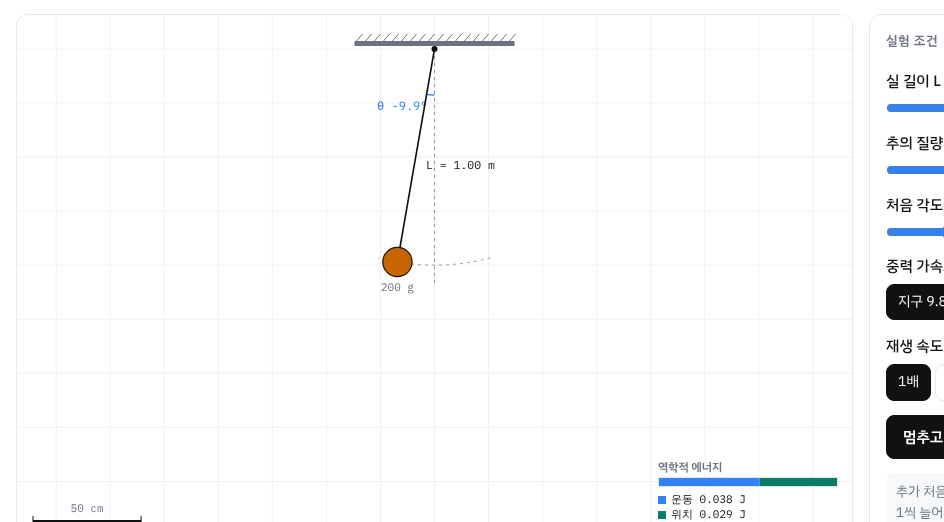
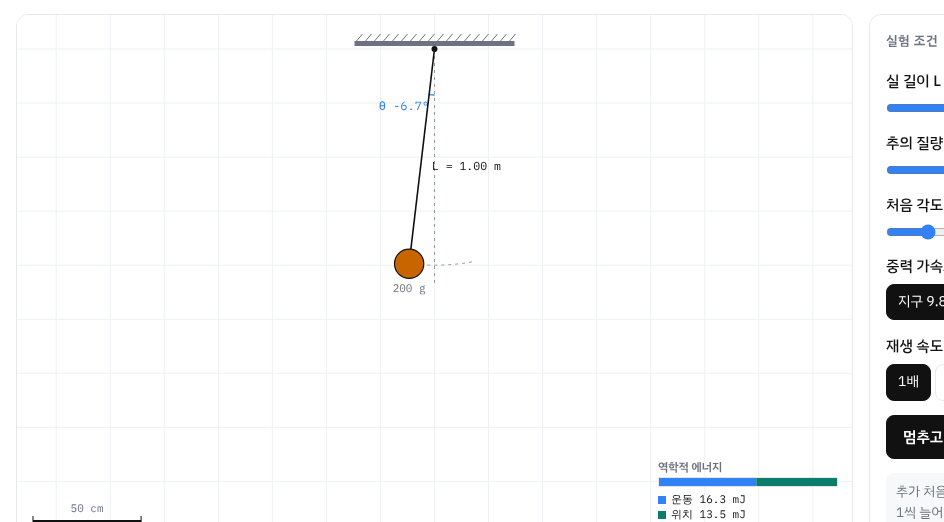
역학과 에너지: 일반 상대성 이론을 측지선 계산으로 다시 만들고 실험 01~05 문장 바로잡음
실험 06 (교감 선생님 지적: 물체가 휘어진 시공간을 따라 움직이도록 구현되지 않았음)
- 전: 평면에서 뉴턴 중력으로 경로를 적분하고 그릴 때만 그물망 높이에 올려 붙임 → 경로와 곡면이 무관,
  '천체가 없을 때의 경로' 점선이 우물 속으로 내려감, 천체 종류별 완화 상수 때문에
  같은 질량·거리인데 꺾인 각도가 다름(보통 별 15.1°·중성자별 18.0°·블랙홀 18.6°)
- 후: 슈바르츠실트 시공간의 측지선 방정식을 RK4로 적분 (빛은 널 측지선, 공은 시간꼴 측지선, c=G=1)
  · 그물망은 같은 시공간의 공간 단면 매립면(플람 포물면, 별 안쪽은 균일 밀도 해의 구면 캡, 깊이만 2.2배)
  · 천체 반지름은 슈바르츠실트 반지름에 비례(보통 별 4배·중성자별 2.5배·블랙홀 = 사건의 지평선)
  · 점선은 평평한 시공간(z=0)의 직선, 블랙홀 둘레에 빛 포획 한계(3√3 M ≈ 2.6 × 지평선 반지름) 점선 원
  · 검증: 질량 4·거리 0.35에서 세 천체 모두 빛 15.8°·공 59.2°, 빛 포획은 0.10~0.11 사이(이론 0.104)
- 시간 지연: 시계 A를 'A (∞)'로 표기하고 끊김 표시(//)를 두어 무한히 먼 곳 기준임을 드러냄
- 설명 문장: 그물망·측지선·과장의 이유(태양 반지름은 슈바르츠실트 반지름의 약 23만 배) 보강

실험 01~05 (검토 결과: 수식·수치는 모두 이론값과 일치, 문장만 수정)
- 단진자: '역학적 에너지 변화' → '운동·위치 에너지의 전환(보존)', 진폭별 주기 증가율 명시(10° 0.2 %…60° 7 %),
  기본 진폭 15° → 10°, g 구하기 과제에 '진폭 10° 이하', 점질량·실 질량 무시 전제, 에너지 mJ 표시
- 포물선: 합이 90°인 두 각의 도달 거리 비교에 '발사 높이 0 m' 조건
- 그래프 변인 통제: 발사각–거리(속력·높이·g)·T²–L(g)에서 지금 조건과 다른 기록은 회색 점으로, 추세선에서 제외
- 인공위성: 속력을 키울 때 궤도 순서(떨어짐 → 타원 → 원 → 타원 → 탈출), 우주정거장 약 92분,
  '지구 중력을 벗어남' → '지구로 되돌아오지 않음', 높이에 따라 두 속력이 작아짐
- 도플러: 충격파 조건 '이상' → '보다 빠르면', 위에서 보면 V자, sin θ = v/vs, 소리 속력 340 m/s(약 15 °C), 빛은 '비슷한' 현상
- 케플러: 속력 km/s 환산 설명, 행성 질량 무시 설명
- 썸네일 1·5 재캡처, CLAUDE.md 인수인계 갱신

Claude-Session: https://claude.ai/code/session_01YFfKQGz49m48oPbyrKRZ81

diff --git a/labs/physics/mechanics-energy.html b/labs/physics/mechanics-energy.html
@@ -250,7 +250,7 @@ th{font-size:13px}
           <h3>탐구 과제</h3>
           <ol>
             <li>속력과 높이를 고정하고 발사각 15°, 30°, 45°, 60°, 75°에서 수평 도달 거리 기록</li>
-            <li>수평 도달 거리가 가장 긴 발사각 찾기, 합이 90°인 두 각도(30°와 60°)의 결과 비교</li>
+            <li>수평 도달 거리가 가장 긴 발사각 찾기, 발사 높이 0 m에서 합이 90°인 두 각도(30°와 60°)의 결과 비교</li>
             <li>0.1초 간격 점의 가로·세로 간격을 보고 수평 방향과 연직 방향 운동의 특징 정리</li>
             <li>발사 높이를 20 m로 올렸을 때 가장 멀리 가는 각도가 어떻게 달라지는지 확인</li>
             <li>중력 가속도를 달로 바꾸기 전에 결과를 먼저 예측하고 실험으로 확인</li>
@@ -271,12 +271,12 @@ th{font-size:13px}
       <header class="lab-head">
         <div class="eyebrow">실험 02 · 탄성파와 소리</div>
         <h2>단진자</h2>
-        <p>실 길이·추의 질량·진폭을 바꾸며 주기를 측정하고, 역학적 에너지 변화 관찰</p>
+        <p>실 길이·추의 질량·진폭을 바꾸며 주기를 측정하고, 운동 에너지와 위치 에너지의 전환(역학적 에너지 보존) 관찰</p>
       </header>
       <div class="bench">
         <div class="stage">
           <div class="cvbox"><canvas class="sim" aria-label="단진자 시뮬레이션 화면"></canvas></div>
-          <p class="cap">배경 눈금 1칸 = 25 cm · 공기 저항 무시</p>
+          <p class="cap">배경 눈금 1칸 = 25 cm · 추는 점, 실의 질량과 늘어남은 무시 · 공기 저항 무시</p>
           <div class="readout"></div>
         </div>
         <div class="panel"><h3>실험 조건</h3><div class="ctls"></div></div>
@@ -291,7 +291,7 @@ th{font-size:13px}
           <ol>
             <li>길이와 진폭을 고정하고 추의 질량만 바꾸며 주기 측정, 주기와 질량의 관계 정리</li>
             <li>실 길이를 0.2 m부터 2.0 m까지 바꾸며 주기 측정</li>
-            <li>T²–L 그래프를 그리고 추세선 기울기로 중력 가속도 g 구하기 (T² = 4π²L / g 이므로 g = 4π² ÷ 기울기)</li>
+            <li>T²–L 그래프를 그리고 추세선 기울기로 중력 가속도 g 구하기 (T² = 4π²L / g 이므로 g = 4π² ÷ 기울기 · 진폭은 10° 이하로)</li>
             <li>에너지 막대에서 운동 에너지와 위치 에너지가 바뀌어도 합이 일정한지 확인</li>
             <li>g를 달로 바꾸기 전에 주기가 몇 배가 될지 예측하고 확인</li>
           </ol>
@@ -299,7 +299,7 @@ th{font-size:13px}
         <details class="more">
           <summary>이것까지 알면 좋아요</summary>
           <ul>
-            <li>T = 2π√(L/g)는 진폭이 작을 때 성립하는 식. 이 실험실은 근사 없이 계산하므로 진폭을 40° 이상으로 키우면 주기가 조금 길어짐</li>
+            <li>T = 2π√(L/g)는 진폭이 작을 때 성립하는 근사식. 이 실험실은 근사 없이 계산하므로 진폭이 클수록 주기가 길어짐 (10°에서 약 0.2 %, 20°에서 약 0.8 %, 40°에서 약 3 %, 60°에서 약 7 %). g를 구할 때는 진폭을 10° 이하로 두어야 9.8에 가깝게 나옴</li>
             <li>실제 실험에서 10번 왕복 시간을 재서 나누는 까닭: 초시계를 누를 때 생기는 반응 시간 오차를 줄이기 위함</li>
           </ul>
         </details>
@@ -316,7 +316,7 @@ th{font-size:13px}
       <div class="bench">
         <div class="stage">
           <div class="cvbox"><canvas class="sim" aria-label="행성 공전 시뮬레이션 화면"></canvas></div>
-          <p class="cap">거리 단위 AU(천문단위), 시간 단위 년 · 화살표 길이는 속력에 비례</p>
+          <p class="cap">거리 단위 AU(천문단위), 시간 단위 년 · 속력은 km/s로 환산 (1 AU/년 ≈ 4.74 km/s) · 화살표 길이는 속력에 비례</p>
           <div class="readout"></div>
           <div class="sectors"></div>
         </div>
@@ -343,6 +343,7 @@ th{font-size:13px}
             <li>1 AU는 지구와 태양 사이 평균 거리, 약 1억 5천만 km</li>
             <li>AU와 년 단위를 쓰면 태양계 행성의 T²/a³ 값은 모두 1에 가까움. 이 값은 중심 천체의 질량으로 정해지므로, 목성 둘레를 도는 위성들은 서로는 같지만 태양 둘레를 도는 행성과는 다른 값이 나옴</li>
             <li>구간 넓이는 화면의 부채꼴 모양을 잘게 나눠 계산한 값</li>
+            <li>행성의 질량은 태양의 1/1000보다 작아 무시함 (엄밀히는 T²/a³이 태양과 행성의 질량 합에 반비례)</li>
           </ul>
         </details>
       </div>
@@ -370,7 +371,7 @@ th{font-size:13px}
         <div>
           <h3>탐구 과제</h3>
           <ol>
-            <li>발사 속력을 1 km/s씩 키우며 결과 기록 (떨어짐 → 원 궤도 → 타원 궤도 → 탈출)</li>
+            <li>발사 속력을 1 km/s씩 키우며 결과 기록 (떨어짐 → 타원 궤도 → 원 궤도 → 타원 궤도 → 탈출)</li>
             <li>원 궤도에 가장 가까워지는 속력 찾기, 만유인력이 구심력 역할을 한다는 식으로 계산한 값과 비교</li>
             <li>발사 높이를 바꾸며 원 궤도 속력과 공전 주기 변화 비교</li>
             <li>[기준 속력 보기]는 예측과 측정을 마친 뒤에 켜서 확인</li>
@@ -379,9 +380,9 @@ th{font-size:13px}
         <details class="more">
           <summary>이것까지 알면 좋아요</summary>
           <ul>
-            <li>지표면 근처 원 궤도 속력 약 7.9 km/s, 지구 중력을 벗어나는 탈출 속력 약 11.2 km/s</li>
+            <li>지표면 근처 원 궤도 속력 약 7.9 km/s, 지구로 되돌아오지 않는 탈출 속력 약 11.2 km/s. 높이가 높을수록 두 값 모두 작아짐 (400 km에서는 7.67 km/s·10.85 km/s)</li>
             <li>탈출 속력 = 원 궤도 속력 × √2 (역학적 에너지 보존으로 구함)</li>
-            <li>국제우주정거장은 약 400 km 높이에서 약 90분마다 지구를 한 바퀴 돎</li>
+            <li>국제우주정거장은 약 400 km 높이에서 약 92분(1시간 30분 남짓)마다 지구를 한 바퀴 돎</li>
           </ul>
         </details>
       </div>
@@ -397,7 +398,7 @@ th{font-size:13px}
       <div class="bench">
         <div class="stage">
           <div class="cvbox"><canvas class="sim" aria-label="도플러 효과 시뮬레이션 화면"></canvas></div>
-          <p class="cap">위에서 내려다본 모습 · 소리의 속력 340 m/s · 실제보다 150배 느리게 재생</p>
+          <p class="cap">위에서 내려다본 모습 · 소리의 속력 340 m/s (약 15 °C 공기) · 실제보다 150배 느리게 재생</p>
           <div class="readout"></div>
         </div>
         <div class="panel"><h3>실험 조건</h3><div class="ctls"></div></div>
@@ -419,9 +420,9 @@ th{font-size:13px}
         <details class="more">
           <summary>이것까지 알면 좋아요</summary>
           <ul>
-            <li>음원 속력이 소리 속력 이상이면 파면이 겹쳐 원뿔 모양 충격파가 생김 (소닉 붐)</li>
+            <li>음원 속력이 소리 속력보다 빠르면 파면이 겹쳐 원뿔 모양(위에서 보면 V자) 충격파가 생김 (소닉 붐). 원뿔의 반각 θ는 sin θ = v/vs</li>
             <li>관찰자가 정지한 음원 쪽으로 vo로 다가가면 f′ = f·(v + vo)/v</li>
-            <li>빛에서도 같은 현상이 일어남. 멀어지는 별과 은하의 빛은 파장이 길어짐(적색 편이)</li>
+            <li>빛에서도 비슷한 현상이 일어남. 멀어지는 별과 은하의 빛은 파장이 길어짐(적색 편이)</li>
           </ul>
         </details>
       </div>
@@ -464,8 +465,9 @@ th{font-size:13px}
         <details class="more">
           <summary>이것까지 알면 좋아요</summary>
           <ul>
-            <li>그물망(고무막) 그림은 비유. 실제로는 3차원 공간과 시간이 함께 휘어지고, 고무막처럼 '아래쪽'이 있는 것은 아님</li>
-            <li>빛이 휘는 정도는 보기 쉽게 크게 과장함. 태양 가장자리를 스치는 별빛은 약 1.75″(각초)만 휘어지며, 1919년 일식 관측으로 처음 확인됨</li>
+            <li>그물망은 질량 주위의 휘어진 공간(일반 상대성 이론의 슈바르츠실트 해)의 한 단면을 2차원 곡면으로 나타낸 것(깊이는 보기 쉽게 키움). 실제로는 3차원 공간과 시간이 함께 휘어지고, 고무막처럼 '아래쪽'이 있는 것은 아님</li>
+            <li>빛과 공의 경로는 이 휘어진 시공간에서 가장 곧은 길(측지선)을 계산한 것. 그래서 같은 질량·같은 거리면 천체 종류와 관계없이 똑같이 휘고, 공은 빛보다 느려서 더 많이 휨</li>
+            <li>실제 별은 질량에 비해 매우 커서(태양 반지름은 슈바르츠실트 반지름의 약 23만 배) 빛이 거의 휘지 않음. 여기서는 천체를 지평선 반지름의 몇 배 크기로 아주 작고 무겁게 잡아 휘는 정도를 과장함. 태양 가장자리를 스치는 별빛은 약 1.75″(각초)만 휘어지며, 1919년 일식 관측으로 처음 확인됨</li>
             <li>시간 지연 계산식: t<sub>B</sub> = t<sub>A</sub> × √(1 − 2GM/rc²). 2GM/c²을 슈바르츠실트 반지름이라 하고, 블랙홀은 이 반지름(사건의 지평선) 안쪽에서 빛도 빠져나오지 못함</li>
             <li>GPS 위성의 시계는 중력이 약한 높은 곳에 있어 지상보다 하루에 약 45 μs 빨리 감. 빠르게 움직여서 느려지는 효과(약 7 μs)를 합치면 하루 약 38 μs 차이 → 보정하지 않으면 위치 오차가 하루에 10 km 넘게 쌓임. 이 실험실에서 지구를 고르고 시계 B를 1.0과 4.2 × 반지름에 두어 '하루에 늦어지는 시간'의 차이를 구하면 비슷한 값이 나옴 (1.0에서 읽는 60 μs는 아주 먼 곳과 비교한 값)</li>
           </ul>
@@ -578,8 +580,10 @@ function scatter(cv,o){
   text(ctx,o.xLabel,pl+pw/2,h-4,{size:12,align:'center',base:'bottom'});
   ctx.save();ctx.translate(13,pt+ph/2);ctx.rotate(-Math.PI/2);text(ctx,o.yLabel,0,0,{size:12,align:'center',base:'middle'});ctx.restore();
   if(!pts.length){text(ctx,'기록을 추가하면 점이 찍혀요',pl+pw/2,pt+ph/2,{size:13,align:'center',base:'middle'});return;}
-  if(o.fit&&pts.length>=2){let sxy=0,sxx=0;pts.forEach(p=>{sxy+=p.x*p.y;sxx+=p.x*p.x;});if(sxx>0){const k=sxy/sxx;ctx.strokeStyle=hexA(C.accent,0.75);ctx.lineWidth=1.5;ctx.setLineDash([5,4]);const xe=Math.min(xm,ym/k);line(ctx,X(0),Y(0),X(xe),Y(k*xe));ctx.setLineDash([]);text(ctx,'원점을 지나는 추세선 기울기 ≈ '+k.toPrecision(4),pl+8,6,{size:12,color:C.accent,base:'top',weight:600});}}
-  pts.forEach(p=>{ctx.fillStyle=C.trace;ctx.beginPath();ctx.arc(X(p.x),Y(p.y),4.5,0,TAU);ctx.fill();ctx.strokeStyle=C.panel;ctx.lineWidth=1.5;ctx.stroke();});
+  if(o.note)text(ctx,o.note,pl+pw,pt-8,{size:11,align:'right',base:'bottom',color:C.muted});
+  const fp=pts.filter(p=>!p.dim);
+  if(o.fit&&fp.length>=2){let sxy=0,sxx=0;fp.forEach(p=>{sxy+=p.x*p.y;sxx+=p.x*p.x;});if(sxx>0){const k=sxy/sxx;ctx.strokeStyle=hexA(C.accent,0.75);ctx.lineWidth=1.5;ctx.setLineDash([5,4]);const xe=Math.min(xm,ym/k);line(ctx,X(0),Y(0),X(xe),Y(k*xe));ctx.setLineDash([]);text(ctx,'원점을 지나는 추세선 기울기 ≈ '+k.toPrecision(4),pl+8,6,{size:12,color:C.accent,base:'top',weight:600});}}
+  pts.forEach(p=>{ctx.fillStyle=p.dim?hexA(C.muted,0.45):C.trace;ctx.beginPath();ctx.arc(X(p.x),Y(p.y),4.5,0,TAU);ctx.fill();ctx.strokeStyle=C.panel;ctx.lineWidth=1.5;ctx.stroke();});
 }
 
 const LABS={};
@@ -592,10 +596,10 @@ const G_OPTS=[{v:9.8,t:'지구 9.8'},{v:3.7,t:'화성 3.7'},{v:1.6,t:'달 1.6'}]
 mkLab('projectile',L=>{
   const st={v0:15,ang:45,h:0,g:9.8,rate:1,vec:true,strobe:true,run:false,t:0,fl:null,done:null,trails:[],ci:0};
   const D=()=>{if(!st.run&&st.done){st.done=null;recB.disabled=true;res.textContent='조건이 바뀌었어요. 다시 발사하면 결과가 나와요.';}L.dirty=true;};
-  slider(L.ctl,{id:'p-v',label:'발사 속력',min:1,max:30,step:0.5,value:15,unit:'m/s',digits:1,onInput:v=>{st.v0=v;D();}});
+  slider(L.ctl,{id:'p-v',label:'발사 속력',min:1,max:30,step:0.5,value:15,unit:'m/s',digits:1,onInput:v=>{st.v0=v;D();L.drawChart();}});
   slider(L.ctl,{id:'p-a',label:'발사 각도',min:0,max:90,step:1,value:45,unit:'°',digits:0,onInput:v=>{st.ang=v;D();}});
-  slider(L.ctl,{id:'p-h',label:'발사 높이',min:0,max:30,step:1,value:0,unit:'m',digits:0,onInput:v=>{st.h=v;D();}});
-  seg(L.ctl,{label:'중력 가속도 g (m/s²)',options:G_OPTS,value:9.8,onChange:v=>{st.g=v;D();}});
+  slider(L.ctl,{id:'p-h',label:'발사 높이',min:0,max:30,step:1,value:0,unit:'m',digits:0,onInput:v=>{st.h=v;D();L.drawChart();}});
+  seg(L.ctl,{label:'중력 가속도 g (m/s²)',options:G_OPTS,value:9.8,onChange:v=>{st.g=v;D();L.drawChart();}});
   seg(L.ctl,{label:'재생 속도',options:[{v:1,t:'실제 속도'},{v:0.25,t:'4배 느리게'}],value:1,onChange:v=>{st.rate=v;}});
   check(L.ctl,{id:'p-vec',label:'속도 벡터 보기 (v, vx, vy)',value:true,onChange:v=>{st.vec=v;D();}});
   check(L.ctl,{id:'p-str',label:'0.1초마다 위치 점 찍기',value:true,onChange:v=>{st.strobe=v;D();}});
@@ -606,7 +610,7 @@ mkLab('projectile',L=>{
   const R=readout(L.ro,[['t','시간','s'],['x','x','m'],['y','y','m'],['vx','vx','m/s'],['vy','vy','m/s']]);
   const res=L.sec.querySelector('.result');
   const rec=recorder(L.rec,'projectile',[{k:'ang',l:'발사각 (°)',d:0},{k:'v0',l:'속력 (m/s)',d:1},{k:'h',l:'높이 (m)',d:0},{k:'g',l:'g (m/s²)',d:1},{k:'T',l:'비행 시간 (s)',d:2},{k:'R',l:'도달 거리 (m)',d:2},{k:'H',l:'최고 높이 (m)',d:2}]);
-  L.drawChart=()=>scatter(L.chartCv,{points:rec.rows.map(r=>({x:r.ang,y:r.R})),xMax:90,xStep:15,xLabel:'발사각 (°)',yLabel:'수평 도달 거리 (m)'});
+  L.drawChart=()=>{const pts=rec.rows.map(r=>({x:r.ang,y:r.R,dim:!(Math.abs(r.v0-st.v0)<1e-9&&Math.abs(r.h-st.h)<1e-9&&Math.abs(r.g-st.g)<1e-9)}));scatter(L.chartCv,{points:pts,xMax:90,xStep:15,xLabel:'발사각 (°)',yLabel:'수평 도달 거리 (m)',note:pts.some(q=>q.dim)?'회색: 지금과 속력·높이·g가 다른 기록':''});};
   rec.onChange(()=>L.drawChart());
 
   function plan(){const th=st.ang*DEG,vx=st.v0*Math.cos(th),vy=st.v0*Math.sin(th),g=st.g,h=st.h;const T=(vy+Math.sqrt(vy*vy+2*g*h))/g;return{v0:st.v0,ang:st.ang,h,g,vx,vy,T,R:vx*T,H:h+(vy>0?vy*vy/(2*g):0)};}
@@ -660,12 +664,12 @@ mkLab('projectile',L=>{
    02 단진자
    ========================================================= */
 mkLab('pendulum',L=>{
-  const st={L:1,m:200,th0:15,g:9.8,rate:1,run:false,th:15*DEG,om:0,t:0,n:0,tn:0,t10:null};
+  const st={L:1,m:200,th0:10,g:9.8,rate:1,run:false,th:10*DEG,om:0,t:0,n:0,tn:0,t10:null};
   function reset(){st.run=false;st.th=st.th0*DEG;st.om=0;st.t=0;st.n=0;st.tn=0;st.t10=null;runB.textContent='추 놓기';recB.disabled=true;L.dirty=true;}
   slider(L.ctl,{id:'q-l',label:'실 길이 L',min:0.2,max:2,step:0.05,value:1,unit:'m',digits:2,onInput:v=>{st.L=v;reset();}});
   slider(L.ctl,{id:'q-m',label:'추의 질량',min:50,max:500,step:10,value:200,unit:'g',digits:0,onInput:v=>{st.m=v;reset();}});
-  slider(L.ctl,{id:'q-a',label:'처음 각도 (진폭)',min:2,max:60,step:1,value:15,unit:'°',digits:0,onInput:v=>{st.th0=v;reset();}});
-  seg(L.ctl,{label:'중력 가속도 g (m/s²)',options:G_OPTS,value:9.8,onChange:v=>{st.g=v;reset();}});
+  slider(L.ctl,{id:'q-a',label:'처음 각도 (진폭)',min:2,max:60,step:1,value:10,unit:'°',digits:0,onInput:v=>{st.th0=v;reset();}});
+  seg(L.ctl,{label:'중력 가속도 g (m/s²)',options:G_OPTS,value:9.8,onChange:v=>{st.g=v;reset();L.drawChart();}});
   seg(L.ctl,{label:'재생 속도',options:[{v:1,t:'1배'},{v:2,t:'2배'},{v:4,t:'4배'}],value:1,onChange:v=>{st.rate=v;}});
   const bw=el('div','btns');L.ctl.appendChild(bw);
   const runB=btn(bw,'추 놓기','primary',()=>{if(st.run){reset();}else{reset();st.run=true;runB.textContent='멈추고 처음으로';}});
@@ -675,7 +679,7 @@ mkLab('pendulum',L=>{
   const rec=recorder(L.rec,'pendulum',[{k:'L',l:'길이 L (m)',d:2},{k:'m',l:'질량 (g)',d:0},{k:'a',l:'진폭 (°)',d:0},{k:'g',l:'g (m/s²)',d:1},{k:'n',l:'왕복 횟수',d:0},{k:'tn',l:'걸린 시간 (s)',d:2},{k:'T',l:'주기 T (s)',d:3},{k:'T2',l:'T² (s²)',d:3}]);
   let cm='T2';
   seg(L.sec.querySelector('.chart-ctl'),{options:[{v:'T',t:'T–L'},{v:'T2',t:'T²–L'}],value:'T2',onChange:v=>{cm=v;L.drawChart();}});
-  L.drawChart=()=>scatter(L.chartCv,{points:rec.rows.map(r=>({x:r.L,y:cm==='T2'?r.T2:r.T})),xMax:2,xStep:0.5,xLabel:'실 길이 L (m)',yLabel:cm==='T2'?'T² (s²)':'주기 T (s)',fit:cm==='T2'});
+  L.drawChart=()=>{const pts=rec.rows.map(r=>({x:r.L,y:cm==='T2'?r.T2:r.T,dim:Math.abs(r.g-st.g)>1e-9}));scatter(L.chartCv,{points:pts,xMax:2,xStep:0.5,xLabel:'실 길이 L (m)',yLabel:cm==='T2'?'T² (s²)':'주기 T (s)',fit:cm==='T2',note:pts.some(q=>q.dim)?'회색: 지금과 g가 다른 기록 (추세선에서 제외)':''});};
   rec.onChange(()=>L.drawChart());
 
   const acc=th=>-(st.g/st.L)*Math.sin(th);
@@ -707,8 +711,8 @@ mkLab('pendulum',L=>{
     text(ctx,'역학적 에너지',ex,ey,{size:11.5,weight:600});
     const tot=Math.max(E,1e-12),kw=ew*clamp(KE/tot,0,1);
     ctx.fillStyle=C.accent;ctx.fillRect(ex,ey+6,kw,10);ctx.fillStyle=C.teal;ctx.fillRect(ex+kw,ey+6,Math.max(0,ew*clamp(PE/tot,0,1)),10);ctx.strokeStyle=C.rule;ctx.lineWidth=1;ctx.strokeRect(ex+0.5,ey+6.5,ew-1,9);
-    ctx.fillStyle=C.accent;ctx.fillRect(ex,ey+25,8,8);text(ctx,'운동 '+KE.toFixed(3)+' J',ex+13,ey+29,{mono:1,size:11,base:'middle',color:C.ink});
-    ctx.fillStyle=C.teal;ctx.fillRect(ex,ey+40,8,8);text(ctx,'위치 '+PE.toFixed(3)+' J',ex+13,ey+44,{mono:1,size:11,base:'middle',color:C.ink});
+    ctx.fillStyle=C.accent;ctx.fillRect(ex,ey+25,8,8);text(ctx,'운동 '+(KE*1000).toFixed(1)+' mJ',ex+13,ey+29,{mono:1,size:11,base:'middle',color:C.ink});
+    ctx.fillStyle=C.teal;ctx.fillRect(ex,ey+40,8,8);text(ctx,'위치 '+(PE*1000).toFixed(1)+' mJ',ex+13,ey+44,{mono:1,size:11,base:'middle',color:C.ink});
     R('t',fx(st.t,2));R('n',String(st.n));R('t10',st.t10!=null?fx(st.t10,2):'—');R('T',st.n?fx(st.tn/st.n,3):'—');
   };
 });
@@ -800,7 +804,7 @@ mkLab('satellite',L=>{
 
   function predictView(h,v){const r0=RE+h*1000,v0=v*1000;const eps=v0*v0/2-GM/r0;if(eps>=0)return RE*5;const a=-GM/(2*eps),H=r0*v0;const ec=Math.sqrt(Math.max(0,1+2*eps*H*H/(GM*GM)));const ra=a*(1+ec),rp=a*(1-ec);if(rp<RE)return Math.max(r0*1.3,RE*1.3);return Math.min(Math.max(ra,r0)*1.15,RE*12);}
   function launch(){if(st.cur){st.trails.push(st.cur);if(st.trails.length>5)st.trails.shift();}const r0=RE+st.h*1000;st.cur={x:0,y:r0,vx:st.v*1000,vy:0,t:0,swept:0,pa:Math.PI/2,pts:[[0,r0]],status:'fly',maxR:r0,minR:r0,period:null,h:st.h,v:st.v,c:st.ci%4,view:predictView(st.h,st.v)};st.ci++;st.run=true;recB.disabled=true;L.dirty=true;}
-  function stText(c){if(!c)return'발사 전';switch(c.status){case'fly':return'비행 중';case'crash':return'지표면에 떨어짐';case'escape':return'지구 중력을 벗어남 (탈출)';case'far':return'아주 큰 타원 궤도 (화면 밖)';case'orbit':{const e=(c.maxR-c.minR)/(c.maxR+c.minR);return e<0.02?'원 궤도에 가까움':'타원 궤도';}}return'';}
+  function stText(c){if(!c)return'발사 전';switch(c.status){case'fly':return'비행 중';case'crash':return'지표면에 떨어짐';case'escape':return'지구로 되돌아오지 않음 (탈출)';case'far':return'아주 큰 타원 궤도 (화면 밖)';case'orbit':{const e=(c.maxR-c.minR)/(c.maxR+c.minR);return e<0.02?'원 궤도에 가까움':'타원 궤도';}}return'';}
   function record(){const c=st.cur;if(!c||c.status==='fly')return;const far=c.status==='escape'||c.status==='far';rec.add({h:c.h,v:c.v,res:stText(c),hi:far?'—':(c.maxR-RE)/1000,lo:(c.minR-RE)/1000,P:c.period?c.period/60:'—'});recB.disabled=true;}
   function accel(x,y){const r2=x*x+y*y,r=Math.sqrt(r2),k=-GM/(r2*r);return[k*x,k*y];}
   function rk(c,h){const x=c.x,y=c.y,vx=c.vx,vy=c.vy;const a1=accel(x,y);const x2=x+0.5*h*vx,y2=y+0.5*h*vy,vx2=vx+0.5*h*a1[0],vy2=vy+0.5*h*a1[1];const a2=accel(x2,y2);const x3=x+0.5*h*vx2,y3=y+0.5*h*vy2,vx3=vx+0.5*h*a2[0],vy3=vy+0.5*h*a2[1];const a3=accel(x3,y3);const x4=x+h*vx3,y4=y+h*vy3,vx4=vx+h*a3[0],vy4=vy+h*a3[1];const a4=accel(x4,y4);c.x=x+h/6*(vx+2*vx2+2*vx3+vx4);c.y=y+h/6*(vy+2*vy2+2*vy3+vy4);c.vx=vx+h/6*(a1[0]+2*a2[0]+2*a3[0]+a4[0]);c.vy=vy+h/6*(a1[1]+2*a2[1]+2*a3[1]+a4[1]);}
@@ -923,11 +927,17 @@ mkLab('doppler',L=>{
 mkLab('relativity',L=>{
   const G=6.674e-11,CL=2.998e8;
   const BODIES={earth:{n:'지구',M:5.972e24,R:6.371e6},sun:{n:'태양',M:1.989e30,R:6.957e8},wd:{n:'백색 왜성',M:1.19e30,R:7.0e6},ns:{n:'중성자별',M:2.78e30,R:1.2e4},bh:{n:'블랙홀',M:1.989e31,R:0}};
-  const KIND={star:{eps:0.14,Rs:0.09},ns:{eps:0.06,Rs:0.035},bh:{eps:0.03,Rs:0}};
+  /* [시공간의 휘어짐] 단위: c = G = 1. 질량(상대값) m 에 대해 M = m·MU, 슈바르츠실트 반지름 rs = 2M.
+     천체 반지름은 rs 에 비례해 잡는다(보통 별 4 rs, 중성자별 2.5 rs, 블랙홀 = rs 사건의 지평선).
+     실제 별은 rs 의 수십만 배라 빛이 거의 휘지 않으므로, 보이게 하려고 천체를 아주 작고 무겁게 잡은 것이다.
+     빛과 공의 경로는 슈바르츠실트 시공간의 측지선 방정식(적도면)을 그대로 적분한다:
+       r'' = -κM/r² + L²/r³ - 3ML²/r⁴,  φ' = L/r²,  t' = E/(1 - rs/r)   (κ: 빛 0, 공 1, ' 은 아핀 매개변수 미분)
+     그물망은 같은 시공간의 공간 단면을 매립한 플람 포물면 z = 2√(rs(r - rs)) (별 안쪽은 균일 밀도 해의 구면 캡), 깊이만 KZ 배 키운다. */
+  const MU=0.005,KZ=2.2,RAD={star:4,ns:2.5,bh:1};
   const KN={star:'보통 별',ns:'중성자별',bh:'블랙홀'};
   const RES={out:'휘어져 지나감',hit:'천체 표면에 부딪힘',capture:'블랙홀에 빨려 들어감',orbit:'천체 주위를 맴돎'};
-  const CAPW='그물망은 휘어진 공간을 2차원으로 나타낸 비유 · 빛이 휘는 정도는 보기 쉽게 크게 과장함 · 화면을 끌거나 방향키를 누르면 보는 방향이 바뀜';
-  const CAPT='시계 A는 천체에서 아주 먼 곳, 시계 B는 천체 가까이 · 화면 1초 동안 시계 A는 10분 흐름 · 왼쪽 그림의 깊이는 비율을 줄여 그림';
+  const CAPW='그물망은 질량 주위의 휘어진 공간을 2차원 곡면으로 나타낸 것(깊이는 보기 쉽게 키움) · 빛과 공은 이 시공간에서 가장 곧은 길(측지선)을 따라감 · 화면을 끌거나 방향키를 누르면 보는 방향이 바뀜';
+  const CAPT='시계 A는 천체에서 아주 먼 곳(그림에서는 자리를 당겨 그림), 시계 B는 천체 가까이 · 화면 1초 동안 시계 A는 10분 흐름 · 왼쪽 그림의 깊이는 비율을 줄여 그림';
   const st={mode:'warp',mass:4,kind:'star',b:0.35,yaw:-0.5,tilt:0.95,paths:[],last:null,body:'ns',rx:2,trun:true,far:0};
   const D=()=>{L.dirty=true;};
   const cap=L.sec.querySelector('.cap');cap.textContent=CAPW;
@@ -946,7 +956,7 @@ mkLab('relativity',L=>{
   btn(bw,'공 굴리기','',()=>shoot('ball'));
   const recWB=btn(bw,'이번 결과 기록','',()=>{const p=st.last;if(!p||!p.done)return;recw.add({what:p.kind==='light'?'빛':'공',kind:KN[p.k],m:p.m,b:p.b,res:RES[p.end],def:p.end==='out'?p.def:'—'});recWB.disabled=true;});recWB.disabled=true;
   btn(bw,'경로 지우기','',()=>{st.paths=[];st.last=null;recWB.disabled=true;D();});
-  gw.appendChild(el('p','hint','빛과 공은 왼쪽에서 출발해 오른쪽으로 가요. 점선은 천체가 없을 때 지나갔을 직선 경로예요. 블랙홀의 검은 원은 빛이 붙잡히는 경계를 과장해 그린 것이에요.'));
+  gw.appendChild(el('p','hint','빛과 공은 왼쪽에서 출발해 오른쪽으로 가요. 점선은 천체가 없을 때(평평한 시공간) 지나갔을 직선 경로예요. 질량을 키우면 천체도 비례해 커져요. 블랙홀의 검은 원은 사건의 지평선, 그 둘레의 점선 원은 빛이 붙잡히는 한계(비켜 가는 거리 약 2.6 × 지평선 반지름)예요.'));
   // 시간 지연
   seg(gt,{label:'천체',options:Object.keys(BODIES).map(k=>({v:k,t:BODIES[k].n})),value:'ns',onChange:v=>{st.body=v;rxS.unit.textContent=v==='bh'?'× 지평선 반지름':'× 천체 반지름';const mn=v==='bh'?1.05:1;rxS.wrap.querySelectorAll('input').forEach(i=>{i.min=String(mn);});if(st.rx<mn){st.rx=mn;rxS.set(mn,false);}D();}});
   const rxS=slider(gt,{id:'t-r',label:'시계 B 위치 (중심에서 거리)',min:1,max:10,step:0.01,value:2,unit:'× 천체 반지름',digits:2,onInput:v=>{if(st.body==='bh'&&v<1.05){v=1.05;rxS.set(v,false);}st.rx=v;D();}});
@@ -958,20 +968,30 @@ mkLab('relativity',L=>{
   const recw=recorder(recW,'rel-warp',[{k:'what',l:'보낸 것'},{k:'kind',l:'천체'},{k:'m',l:'질량',d:1},{k:'b',l:'비켜 가는 거리',d:2},{k:'res',l:'결과'},{k:'def',l:'꺾인 각도 (°)',d:1}]);
   const rect=recorder(recT,'rel-time',[{k:'body',l:'천체'},{k:'rx',l:'거리 (× 반지름)',d:2},{k:'k',l:'B의 빠르기'},{k:'day',l:'하루 차이'},{k:'yr',l:'1년 차이'}]);
 
-  function prm(){const k=KIND[st.kind],GM=st.mass*0.006;return{eps:k.eps,Rs:k.Rs,GM,rh:st.kind==='bh'?3*GM:0};}
+  function prm(){const M=st.mass*MU,rs=2*M;return{M,rs,R:RAD[st.kind]*rs,bc:3*Math.sqrt(3)*M};}
   function shoot(kind){
-    const p=prm(),sp=kind==='light'?1.0:0.42;let x=-1.25,y=st.b,vx=sp,vy=0;const pts=[[x,y]];let end='orbit';const dt=0.002;
-    for(let i=0;i<15000;i++){
-      const r2=x*x+y*y,d=Math.pow(r2+p.eps*p.eps,1.5);let ax=-p.GM*x/d,ay=-p.GM*y/d;
-      if(kind==='light'){const ux=vx/sp,uy=vy/sp,dp=ax*ux+ay*uy;ax=2*(ax-dp*ux);ay=2*(ay-dp*uy);}
-      vx+=ax*dt;vy+=ay*dt;if(kind==='light'){const n=Math.hypot(vx,vy);vx*=sp/n;vy*=sp/n;}
-      x+=vx*dt;y+=vy*dt;if(i%3===2)pts.push([x,y]);
-      const r=Math.hypot(x,y);
-      if(p.rh&&r<p.rh){end='capture';pts.push([x,y]);break;}
-      if(p.Rs&&r<p.Rs){end='hit';pts.push([x,y]);break;}
-      if(Math.abs(x)>1.3||Math.abs(y)>1.3){end='out';pts.push([x,y]);break;}
+    const p=prm(),M=p.M,rs=p.rs,kap=kind==='light'?0:1,sp=kind==='light'?1:0.42;
+    const x0=-1.25,y0=st.b,r0=Math.hypot(x0,y0),f0=1-rs/r0;
+    const vr=sp*x0/r0,vp=-sp*y0/r0;                    // +x 방향으로 출발할 때의 지름·접선 방향 좌표 속도
+    const tdot=kap?1/Math.sqrt(f0-vr*vr/f0-vp*vp):Math.sqrt((vr*vr/f0+vp*vp)/f0);   // dt/dλ (공: λ = 고유 시간, 빛: 아핀 매개변수)
+    const sc=kap?tdot:1,Lz=r0*vp*sc,E=f0*tdot;
+    const acc=r=>-kap*M/(r*r)+Lz*Lz/(r*r*r)-3*M*Lz*Lz/(r*r*r*r);
+    const deriv=y=>[y[1],acc(y[0]),Lz/(y[0]*y[0]),E/(1-rs/y[0])];
+    let y=[r0,vr*sc,Math.atan2(y0,x0),0];
+    const bh=st.kind==='bh',stop=bh?rs*1.02:p.R;
+    const pts=[[x0,y0]];let end='orbit',tLast=0,head=0,turn=0,x=x0,yy=y0;
+    for(let i=0;i<60000;i++){
+      const dl=Math.min(0.003,0.06*y[0]);
+      const k1=deriv(y),y2=y.map((v,j)=>v+0.5*dl*k1[j]),k2=deriv(y2),y3=y.map((v,j)=>v+0.5*dl*k2[j]),k3=deriv(y3),y4=y.map((v,j)=>v+dl*k3[j]),k4=deriv(y4);
+      y=y.map((v,j)=>v+dl*(k1[j]+2*k2[j]+2*k3[j]+k4[j])/6);
+      const r=y[0],ph=y[2],cs=Math.cos(ph),sn=Math.sin(ph);x=r*cs;yy=r*sn;
+      const vt=r*Lz/(r*r),vx=y[1]*cs-vt*sn,vy=y[1]*sn+vt*cs,hd=Math.atan2(vy,vx);
+      if(i){let d=hd-head;if(d>Math.PI)d-=TAU;if(d<-Math.PI)d+=TAU;turn+=d;}head=hd;
+      if(y[3]-tLast>=0.006){pts.push([x,yy]);tLast=y[3];}
+      if(r<=stop){end=bh?'capture':'hit';pts.push([x,yy]);break;}
+      if(Math.abs(x)>1.3||Math.abs(yy)>1.3){end='out';pts.push([x,yy]);break;}
     }
-    const path={pts,kind,shown:1,done:false,end,def:Math.abs(Math.atan2(vy,vx))/DEG,b:st.b,m:st.mass,k:st.kind,rate:kind==='light'?260:190};
+    const path={pts,kind,shown:1,done:false,end,def:Math.abs(turn)/DEG,b:st.b,m:st.mass,k:st.kind,rate:kind==='light'?260:190};
     st.paths.push(path);if(st.paths.length>8)st.paths.shift();st.last=path;recWB.disabled=true;D();
   }
   function tc(){const B=BODIES[st.body],rs=2*G*B.M/(CL*CL),R=B.R||rs,rx=st.body==='bh'?Math.max(st.rx,1.05):st.rx,x=rs/(rx*R),k=Math.sqrt(1-x),lag=x/(1+k);return{B,rs,R,rx,k,lag};}
@@ -992,20 +1012,26 @@ mkLab('relativity',L=>{
   };
 
   function drawWarp(ctx,w,h){
-    const p=prm(),K=1.6,ref=1/Math.sqrt(1.75*1.75+p.eps*p.eps);
-    const zf=r=>Math.max(-1.15,-K*p.GM*(1/Math.sqrt(r*r+p.eps*p.eps)-ref));
+    const p=prm(),rs=p.rs,R=p.R,E=1.2,bh=st.kind==='bh';
+    const flamm=r=>2*Math.sqrt(rs*Math.max(r-rs,0));                       // 플람 포물면(바깥 해)
+    const cap2=R*R*R/rs,zR=flamm(R),zEdge=flamm(E);                         // 별 안쪽: 균일 밀도 해 → 구면 캡(반지름² = R³/rs)
+    const zf=r=>{const z=(bh||r>=R)?flamm(r):zR-(Math.sqrt(cap2-r*r)-Math.sqrt(Math.max(cap2-R*R,0)));return -KZ*(zEdge-z);};
     const S=Math.min(w/2.9,h/2.55),cx=w/2,cy=h*0.47;
     const ct=Math.cos(st.tilt),stl=Math.sin(st.tilt),cyw=Math.cos(st.yaw),syw=Math.sin(st.yaw);
     const P=(x,y,z)=>{const X=x*cyw-y*syw,Y=x*syw+y*cyw;const up=Y*stl+z*ct,dep=-Y*ct+z*stl;const k=3.4/(3.4-dep);return[cx+X*S*k,cy-up*S*k];};
-    const N=24,M=80,E=1.2;ctx.lineWidth=1;
-    for(let dir=0;dir<2;dir++){for(let i=0;i<=N;i++){const u=-E+2*E*i/N;ctx.strokeStyle=hexA(C.accent,0.32);ctx.beginPath();let pen=false;for(let j=0;j<=M;j++){const v=-E+2*E*j/M;const x=dir?u:v,y=dir?v:u,r=Math.hypot(x,y);if(r>1.28){pen=false;continue;}const q=P(x,y,zf(r));if(pen)ctx.lineTo(q[0],q[1]);else{ctx.moveTo(q[0],q[1]);pen=true;}}ctx.stroke();}}
-    if(st.kind==='bh'){ctx.fillStyle=C.ink;ctx.beginPath();for(let j=0;j<=48;j++){const a=TAU*j/48;const q=P(p.rh*Math.cos(a),p.rh*Math.sin(a),zf(p.rh));if(j)ctx.lineTo(q[0],q[1]);else ctx.moveTo(q[0],q[1]);}ctx.closePath();ctx.fill();ctx.strokeStyle=C.trace;ctx.lineWidth=1.5;ctx.stroke();}
-    else{const q0=P(0,0,zf(0));const rr=Math.max(4,p.Rs*S);ctx.fillStyle=st.kind==='star'?C.trace:C.teal;ctx.beginPath();ctx.arc(q0[0],q0[1],rr,0,TAU);ctx.fill();ctx.strokeStyle=C.ink;ctx.lineWidth=1;ctx.stroke();}
-    if(st.last){const y=st.last.b;ctx.setLineDash([4,5]);ctx.strokeStyle=hexA(C.muted,0.9);ctx.lineWidth=1.2;ctx.beginPath();for(let j=0;j<=70;j++){const x=-1.25+2.55*j/70;const q=P(x,y,zf(Math.hypot(x,y))+0.004);if(j)ctx.lineTo(q[0],q[1]);else ctx.moveTo(q[0],q[1]);}ctx.stroke();ctx.setLineDash([]);}
-    st.paths.forEach(pa=>{const n=Math.min(pa.pts.length,Math.floor(pa.shown));if(n<2)return;const col=pa.kind==='light'?C.trace:C.rose,latest=pa===st.last;ctx.strokeStyle=latest?col:hexA(col,0.45);ctx.lineWidth=latest?2.4:1.5;ctx.beginPath();for(let i=0;i<n;i++){const x=pa.pts[i][0],y=pa.pts[i][1];const q=P(x,y,zf(Math.hypot(x,y))+0.004);if(i)ctx.lineTo(q[0],q[1]);else ctx.moveTo(q[0],q[1]);}ctx.stroke();
-      if(!pa.done){const x=pa.pts[n-1][0],y=pa.pts[n-1][1];const q=P(x,y,zf(Math.hypot(x,y)));ctx.fillStyle=col;ctx.beginPath();ctx.arc(q[0],q[1],pa.kind==='light'?4:6,0,TAU);ctx.fill();}});
+    const onSheet=(x,y,lift)=>P(x,y,zf(Math.hypot(x,y))+(lift||0));
+    const rmin=bh?rs:0,N=24,M=140;ctx.lineWidth=1;
+    for(let dir=0;dir<2;dir++){for(let i=0;i<=N;i++){const u=-E+2*E*i/N;ctx.strokeStyle=hexA(C.accent,0.32);ctx.beginPath();let pen=false;for(let j=0;j<=M;j++){const v=-E+2*E*j/M;const x=dir?u:v,y=dir?v:u,r=Math.hypot(x,y);if(r>1.28||r<rmin){pen=false;continue;}const q=P(x,y,zf(r));if(pen)ctx.lineTo(q[0],q[1]);else{ctx.moveTo(q[0],q[1]);pen=true;}}ctx.stroke();}}
+    const ring=(rr,lift)=>{ctx.beginPath();for(let j=0;j<=72;j++){const a=TAU*j/72;const q=onSheet(rr*Math.cos(a),rr*Math.sin(a),lift);if(j)ctx.lineTo(q[0],q[1]);else ctx.moveTo(q[0],q[1]);}ctx.closePath();};
+    if(bh){
+      ring(p.bc,0.004);ctx.setLineDash([3,4]);ctx.strokeStyle=hexA(C.rose,0.8);ctx.lineWidth=1.2;ctx.stroke();ctx.setLineDash([]);   // 빛이 붙잡히는 한계
+      ring(rs*1.001,0);ctx.fillStyle=C.ink;ctx.fill();ctx.strokeStyle=C.trace;ctx.lineWidth=1.5;ctx.stroke();                          // 사건의 지평선
+    } else {ring(R,0.002);ctx.fillStyle=st.kind==='star'?C.trace:C.teal;ctx.fill();ctx.strokeStyle=C.ink;ctx.lineWidth=1;ctx.stroke();}
+    if(st.last){const y=st.last.b;ctx.setLineDash([4,5]);ctx.strokeStyle=hexA(C.muted,0.9);ctx.lineWidth=1.2;ctx.beginPath();for(let j=0;j<=40;j++){const x=-1.25+2.55*j/40;const q=P(x,y,0.004);if(j)ctx.lineTo(q[0],q[1]);else ctx.moveTo(q[0],q[1]);}ctx.stroke();ctx.setLineDash([]);}
+    st.paths.forEach(pa=>{const n=Math.min(pa.pts.length,Math.floor(pa.shown));if(n<2)return;const col=pa.kind==='light'?C.trace:C.rose,latest=pa===st.last;ctx.strokeStyle=latest?col:hexA(col,0.45);ctx.lineWidth=latest?2.4:1.5;ctx.beginPath();for(let i=0;i<n;i++){const q=onSheet(pa.pts[i][0],pa.pts[i][1],0.004);if(i)ctx.lineTo(q[0],q[1]);else ctx.moveTo(q[0],q[1]);}ctx.stroke();
+      if(!pa.done){const q=onSheet(pa.pts[n-1][0],pa.pts[n-1][1],0.004);ctx.fillStyle=col;ctx.beginPath();ctx.arc(q[0],q[1],pa.kind==='light'?4:6,0,TAU);ctx.fill();}});
     const a1=P(-1.42,st.b,0),a2=P(-1.27,st.b,0);arrow(ctx,a1[0],a1[1],a2[0],a2[1],C.muted,1.6,7);
-    let lx=12;[[C.trace,'빛',0],[C.rose,'공',0],[C.muted,'천체가 없을 때의 경로',1]].forEach(it=>{ctx.strokeStyle=it[0];ctx.lineWidth=2;if(it[2])ctx.setLineDash([4,4]);line(ctx,lx,16,lx+18,16);ctx.setLineDash([]);text(ctx,it[1],lx+23,16,{size:11.5,base:'middle',color:C.ink});lx+=23+ctx.measureText(it[1]).width+16;});
+    let lx=12;[[C.trace,'빛',0],[C.rose,'공',0],[C.muted,'천체가 없을 때(평평한 시공간)의 경로',1]].forEach(it=>{ctx.strokeStyle=it[0];ctx.lineWidth=2;if(it[2])ctx.setLineDash([4,4]);line(ctx,lx,16,lx+18,16);ctx.setLineDash([]);text(ctx,it[1],lx+23,16,{size:11.5,base:'middle',color:C.ink});lx+=23+ctx.measureText(it[1]).width+16;});
     const pl=st.last;RW('what',pl?(pl.kind==='light'?'빛':'공'):'—');RW('res',pl?(pl.done?RES[pl.end]:'진행 중…'):'—');RW('def',pl&&pl.done&&pl.end==='out'?pl.def.toFixed(1)+'°':'—');
   }
   function drawClock(ctx,x,y,r,sec,label,col){
@@ -1029,10 +1055,13 @@ mkLab('relativity',L=>{
     const br=Math.max(5,ux);ctx.fillStyle=st.body==='bh'?C.ink:C.trace;ctx.beginPath();ctx.arc(cx,y0+Dp,br,0,TAU);ctx.fill();if(st.body==='bh'){ctx.strokeStyle=C.trace;ctx.lineWidth=1.5;ctx.stroke();}
     text(ctx,q.B.n,cx,y0+Dp+br+16,{size:12,weight:600,align:'center',color:C.ink});
     const bx=cx+q.rx*ux,by=Yc(q.rx);ctx.fillStyle=C.panel;ctx.strokeStyle=C.teal;ctx.lineWidth=2;ctx.beginPath();ctx.arc(bx,by,8,0,TAU);ctx.fill();ctx.stroke();text(ctx,'B',bx,by-14,{size:12,weight:600,color:C.teal,align:'center'});
-    const ax2=cx+(XR-0.7)*ux,ay2=Yc(XR-0.7);ctx.fillStyle=C.panel;ctx.strokeStyle=C.muted;ctx.lineWidth=2;ctx.beginPath();ctx.arc(ax2,ay2,8,0,TAU);ctx.fill();ctx.stroke();text(ctx,'A',ax2,ay2-14,{size:12,weight:600,color:C.muted,align:'center'});
+    // 시계 A: 아주 먼 곳(무한히 먼 곳 기준). 그림에서는 자리를 당겨 그리고 끊김 표시(//)를 둔다
+    const ax2=cx+(XR-0.7)*ux,ay2=Yc(XR-0.7),gx=cx+(XR-1.7)*ux,gy=Yc(XR-1.7);
+    ctx.strokeStyle=C.panel;ctx.lineWidth=6;line(ctx,gx-3,gy+7,gx+5,gy-7);ctx.strokeStyle=C.muted;ctx.lineWidth=1.5;line(ctx,gx-5,gy+7,gx+3,gy-7);line(ctx,gx-1,gy+7,gx+7,gy-7);
+    ctx.fillStyle=C.panel;ctx.strokeStyle=C.muted;ctx.lineWidth=2;ctx.beginPath();ctx.arc(ax2,ay2,8,0,TAU);ctx.fill();ctx.stroke();text(ctx,'A (∞)',ax2,ay2-14,{size:12,weight:600,color:C.muted,align:'center'});
     text(ctx,'중력이 강할수록 깊게 그림',dA.x+14,dA.y+16,{size:11.5,base:'middle'});
     const rr=Math.max(26,Math.min(cA.w/5.2,cA.h*0.27,70));const ccy=cA.y+cA.h*0.5;
-    drawClock(ctx,cA.x+cA.w*0.27,ccy,rr,st.far,'A · 먼 곳',C.muted);
+    drawClock(ctx,cA.x+cA.w*0.27,ccy,rr,st.far,'A · 아주 먼 곳',C.muted);
     drawClock(ctx,cA.x+cA.w*0.73,ccy,rr,st.far*q.k,'B · 천체 근처',C.teal);
     RT('body',q.B.n);RT('r',q.rx.toFixed(2)+(st.body==='bh'?' × 지평선 반지름':' × 천체 반지름'));RT('k',kText(q));RT('day',dur(86400*q.lag));
   }

diff --git a/CLAUDE.md b/CLAUDE.md
@@ -6,6 +6,8 @@
 
 - 2026-11-09: 하영우 선생님 **고정단 반사와 자유단 반사** (`labs/physics/wave-reflection.html`, id `wave-reflection`) 등록·검토·배포. 단원 '역학과 에너지 · 탄성파와 소리', 고2·고3. 넓은 화면(1200px 이상)에서는 (가)(나) 카드를 2열로. 검토 반영(런타임 8·교과 4·UX 5)은 `git log -1 --grep='검토 결과 반영' -- labs/physics/wave-reflection.html` 커밋 메시지 참고. 용어는 선생님 제목('고정단 반사/자유단 반사')을 그대로 두되 결과 문구·정리표는 '고정단 반사와 같음'으로 썼고, 관찰 목록에 극한 관계(v₂→0 고정단, v₂→∞ 자유단)·줄 굵기(v=√(T/μ))·에너지 보존 문장을 보탰다.
 - 세션 브랜치가 `claude/trusting-hopper-q8etug` 였고, 매 커밋을 `claude/awesome-johnson-vp7823` 에도 푸시해 배포함.
+- 2026-11-09: 교감 선생님(물리 전공) 지적으로 역학과 에너지 **실험 06 일반 상대성 이론**의 '시공간의 휘어짐'을 다시 만듦. 전에는 평면에서 뉴턴 중력으로 경로를 적분하고 그릴 때만 그물망 높이에 올려 붙여서 경로와 곡면이 무관했고, '천체가 없을 때의 경로' 점선이 우물 속으로 내려갔으며, 천체 종류별 완화 상수(ε) 때문에 같은 질량·거리인데 꺾인 각도가 달랐음. 지금은 `shoot()` 이 슈바르츠실트 측지선 방정식(r'' = −κM/r² + L²/r³ − 3ML²/r⁴, c=G=1, M = 질량×0.005, rs = 2M)을 RK4로 적분하고, 그물망은 같은 시공간의 플람 포물면 z = 2√(rs(r−rs)) (별 안쪽은 균일 밀도 해의 구면 캡, 깊이 KZ=2.2배), 천체 반지름은 rs 에 비례(보통 별 4 rs·중성자별 2.5 rs·블랙홀 = 지평선), 점선은 z=0 평면, 블랙홀에는 빛 포획 한계(b = 3√3 M ≈ 2.6 rs) 점선 원. 같은 질량·거리면 세 천체 모두 같은 각도(검증: 질량 4·거리 0.35 → 빛 15.8°·공 59.2°), 포획은 b 0.10~0.11 사이(이론 0.104). 시간 지연 화면의 시계 A는 'A (∞)' 표기와 끊김 표시(//)로 무한원 기준임을 드러냄.
+- 같은 커밋에서 실험 01~05 문장 수정(단진자 '역학적 에너지 변화'→'전환', 진폭 문구·기본 진폭 15°→10°, 에너지 mJ 표시, 포물선 '높이 0에서' 조건, 인공위성 궤도 순서·92분·'되돌아오지 않음', 도플러 '초과'·V자·sin θ = v/vs, 15 °C, 케플러 행성 질량 무시 설명) 과 그래프 변인 통제(발사각–거리·T²–L 그래프에서 지금 조건과 다른 기록은 회색, 추세선 제외 · `scatter()` 의 `dim`·`note`). 수식·수치 자체는 다섯 실험 모두 이론값과 일치함을 검산했음(검토 에이전트 보고).
 
 - 물리 첫 실험 **역학과 에너지 가상 실험실**(하영우 선생님, 6가지) 등록·검토·배포 완료. 커밋 `2a2c092`(등록), `4c61c7a`(검토 반영: 런타임 6·교과 6·UX 9). 사이트 반영됨.
 - 검토에서 고친 것 요약: 애니메이션 마지막 프레임 누락(상대성·포물선·위성), 도플러 중복 기록, draw 예외 시 전체 정지 방지, 블랙홀 슬라이더 최솟값, "목성 위성" 문장 정정, 충격파 조건 문구, GPS 45 μs 설명, 실험 전환 시 맨 위로 스크롤, 소리 미지원 안내, 인공위성 [멈춤] 버튼 등. 자세한 목록은 `git show 4c61c7a` 커밋 메시지.
